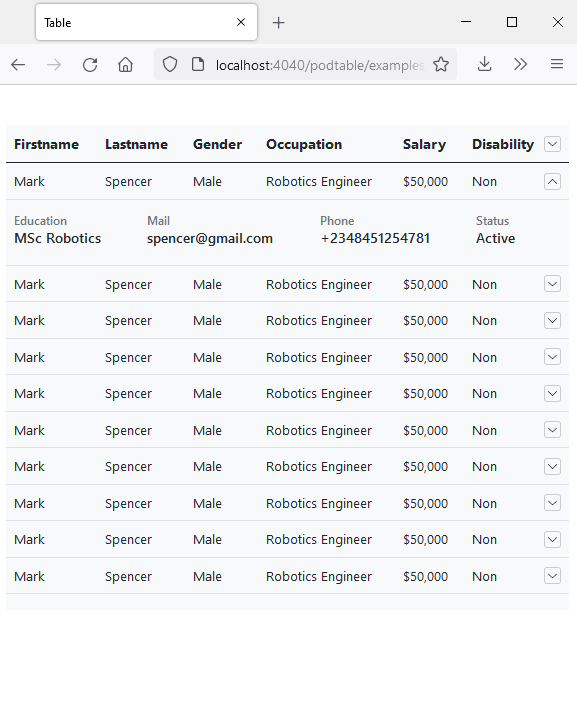
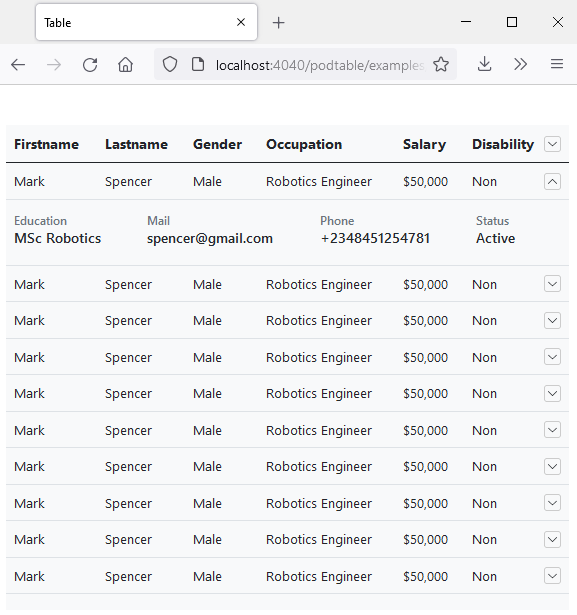
fix control toggle with no hidden cell

diff --git a/dist/podtable.js b/dist/podtable.js
@@ -1,2 +1,2 @@
-!function(e,t){"object"==typeof exports&&"undefined"!=typeof module?module.exports=t():"function"==typeof define&&define.amd?define(t):(e||self).Podtable=t()}(this,function(){function e(e,t){(null==t||t>e.length)&&(t=e.length);for(var n=0,r=new Array(t);n<t;n++)r[n]=e[n];return r}return function(t,n){void 0===n&&(n={});var r,l,o=document.querySelector(t);if(!1===h(o))throw new Error(l);-1===h(o)?r=document.querySelector(t+" thead tr"):h(o)&&(r=document.querySelector(t+" tbody tr"));var i=document.createElement("div");i.setAttribute("id","podtable-container"),o.parentNode.insertBefore(i,o),i.appendChild(o);var c=[],d=[],a=[0],s=window.innerWidth,u=this;function h(e){return null===e?(l="Unable to access target HTMLTableElement",!1):e instanceof HTMLTableElement?null===e.tHead?(l="Table should have only one THEAD",!1):e.tBodies.length<=0?(l="Table should have only one TBODY",!1):!(e.tBodies[0].rows.length<=0)||-1:(l="Element is not a HTMLTableElement",!1)}function f(e){var t=document.createElement("tr"),n=document.createElement("td"),r=document.createElement("div");n.colSpan=d.length,r.classList.add("child-grid-row"),t.classList.add("child");for(var l=0;l<e.length;l++)r.append(e[l]);return n.append(r),t.append(n),t}function m(e){var t=document.createElement("div");t.classList.add("child-grid-col");var n=document.createElement("div"),r=document.createElement("div");return n.innerHTML=e.dataset.gridColname,r.innerHTML=e.innerHTML,t.append(n),t.append(r),t}function v(e){var t=e.target.parentElement;if(t.classList.contains("has-child"))t.classList.remove("has-child"),t.nextElementSibling.remove();else{t.classList.add("has-child");for(var n=[],r=0;r<t.cells.length;r++)t.cells[r].classList.contains("hidden")&&n.push(m(t.cells[r]));t.parentNode.insertBefore(f(n),t.nextSibling)}}function g(){c.length>0?o.classList.add("show-toggle"):(document.querySelectorAll(".has-child").forEach(function(e){e.classList.remove("has-child")}),o.classList.remove("show-toggle"),document.querySelector(".main-toggle").classList.remove("expanded"))}function p(){var e=document.querySelectorAll(".child");if(e.length>0){for(var t=[],n=0;n<e.length;n++)t.push(e[n].previousElementSibling);for(var r=0;r<t.length;r++){var l=[];for(var o in t[r].children)void 0!==t[r].children[o].classList&&t[r].children[o].classList.contains("hidden")&&l.push(m(t[r].children[o]));t[r].nextElementSibling.remove(),c.length>0&&t[r].after(f(l)),g()}}}function y(e){c.push(e),document.querySelectorAll('[data-cell-index="'+e+'"]').forEach(function(e){e.classList.add("hidden")}),S(e)}function b(){L();for(var e=0;e<d.length;e++)r.clientWidth>i.clientWidth&&(c.includes(d[e])||a.includes(d[e])||(y(d[e]),p()));g()}function L(){for(var e=0;e<c.length;e++)document.querySelectorAll('[data-cell-index="'+c[e]+'"]').forEach(function(e){e.classList.remove("hidden")});c=[]}function E(){c=[];for(var e=window.innerWidth,t=d.length,n=0;n<t;n++)r.clientWidth>i.clientWidth&&(c.includes(d[n])||a.includes(d[n])||y(d[n])),s=e;g()}function S(e){u.current=e,n.event&&w()}function w(){if(n.event)try{n.method(u)}catch(e){console.error(e)}}if(function(e){if(Object.prototype.hasOwnProperty.call(e,"keepCell")){if(!Array.isArray(e.keepCell))throw TypeError("keep cell must be of type array");a=[].concat(a,e.keepCell)}}(n),function(e){document.querySelector(e+" thead tr > th:last-child").classList.add("main-toggle"),document.querySelectorAll(e+" tbody tr:not(tr.child) > td:last-child").forEach(function(e){e.classList.add("toggle")})}(t),function(e){for(var t=document.querySelectorAll(e+" tr"),l=[],o=0;o<r.children.length;o++)l.push(o);for(var i=0;i<t.length;i++)for(var c=t[i].children,s=0;s<c.length;s++)c[s].setAttribute("data-cell-index",c[s].cellIndex);d=Object.prototype.hasOwnProperty.call(n,"priority")&&Array.isArray(n.priority)&&n.priority.length>0?Array.from(new Set(n.priority.concat(l.reverse()))):l.reverse(),a.push(l.length-1)}(t),E(),function(){for(var e=document.querySelectorAll(".toggle"),t=0;t<e.length;t++)e[t].addEventListener("click",function(e){v(e)});document.querySelector(".main-toggle").addEventListener("click",function(e){!function(e){var t=document.querySelectorAll(".toggle"),n=e.currentTarget;if(n.classList.contains("expanded")){for(var r=0;r<t.length;r++)t[r].parentElement.classList.contains("has-child")&&t[r].click();n.classList.remove("expanded")}else{for(var l=0;l<t.length;l++)t[l].parentElement.classList.contains("has-child")||t[l].click();n.classList.add("expanded")}}(e)})}(),window.addEventListener("resize",function(){return(e=window.innerWidth)<s?b():e>s&&(b(),c.length<=0&&(S(-1),p())),void(s=e);var e}),function(t){var n=document.querySelector(t+" tbody");function l(e){e.lastElementChild.classList.add("toggle"),e.lastElementChild.addEventListener("click",function(e){return v(e)});for(var t=0;t<e.children.length;t++)e.children[t].setAttribute("data-cell-index",e.children[t].cellIndex)}new MutationObserver(function(n,o){for(var i,c=function(t,n){var r="undefined"!=typeof Symbol&&t[Symbol.iterator]||t["@@iterator"];if(r)return(r=r.call(t)).next.bind(r);if(Array.isArray(t)||(r=function(t,n){if(t){if("string"==typeof t)return e(t,n);var r=Object.prototype.toString.call(t).slice(8,-1);return"Object"===r&&t.constructor&&(r=t.constructor.name),"Map"===r||"Set"===r?Array.from(t):"Arguments"===r||/^(?:Ui|I)nt(?:8|16|32)(?:Clamped)?Array$/.test(r)?e(t,n):void 0}}(t))){r&&(t=r);var l=0;return function(){return l>=t.length?{done:!0}:{done:!1,value:t[l++]}}}throw new TypeError("Invalid attempt to iterate non-iterable instance.\nIn order to be iterable, non-array objects must have a [Symbol.iterator]() method.")}(n);!(i=c()).done;){var d=i.value;"childList"===d.type&&1===d.addedNodes.length?"TR"!=d.addedNodes[0].tagName||d.addedNodes[0].classList.contains("child")||(l(d.addedNodes[0]),w()):"childList"===d.type&&1===d.removedNodes.length&&"TR"==d.removedNodes[0].tagName&&!d.removedNodes[0].classList.contains("child")&&d.removedNodes[0].classList.contains("has-child")&&d.nextSibling.remove()}r=document.querySelector(t+" tbody").rows.length<=0?document.querySelector(t+" thead tr"):document.querySelector(t+" tbody tr"),L(),E()}).observe(n,{childList:!0})}(t),n.event)return u}});
+!function(e,t){"object"==typeof exports&&"undefined"!=typeof module?module.exports=t():"function"==typeof define&&define.amd?define(t):(e||self).Podtable=t()}(this,function(){function e(e,t){(null==t||t>e.length)&&(t=e.length);for(var n=0,r=new Array(t);n<t;n++)r[n]=e[n];return r}return function(t,n){void 0===n&&(n={});var r,l,o=document.querySelector(t);if(!1===h(o))throw new Error(l);-1===h(o)?r=document.querySelector(t+" thead tr"):h(o)&&(r=document.querySelector(t+" tbody tr"));var i=document.createElement("div");i.setAttribute("id","podtable-container"),o.parentNode.insertBefore(i,o),i.appendChild(o);var c=[],d=[],a=[0],s=window.innerWidth,u=this;function h(e){return null===e?(l="Unable to access target HTMLTableElement",!1):e instanceof HTMLTableElement?null===e.tHead?(l="Table should have only one THEAD",!1):e.tBodies.length<=0?(l="Table should have only one TBODY",!1):!(e.tBodies[0].rows.length<=0)||-1:(l="Element is not a HTMLTableElement",!1)}function f(e){var t=document.createElement("tr"),n=document.createElement("td"),r=document.createElement("div");n.colSpan=d.length,r.classList.add("child-grid-row"),t.classList.add("child");for(var l=0;l<e.length;l++)r.append(e[l]);return n.append(r),t.append(n),t}function m(e){var t=document.createElement("div");t.classList.add("child-grid-col");var n=document.createElement("div"),r=document.createElement("div");return n.innerHTML=e.dataset.gridColname,r.innerHTML=e.innerHTML,t.append(n),t.append(r),t}function v(e){if(!(c.length<=0)){var t=e.target.parentElement;if(t.classList.contains("has-child"))t.classList.remove("has-child"),t.nextElementSibling.remove();else{t.classList.add("has-child");for(var n=[],r=0;r<t.cells.length;r++)t.cells[r].classList.contains("hidden")&&n.push(m(t.cells[r]));t.parentNode.insertBefore(f(n),t.nextSibling)}}}function g(){c.length>0?o.classList.add("show-toggle"):(document.querySelectorAll(".has-child").forEach(function(e){e.classList.remove("has-child")}),o.classList.remove("show-toggle"),document.querySelector(".main-toggle").classList.remove("expanded"))}function p(){var e=document.querySelectorAll(".child");if(e.length>0){for(var t=[],n=0;n<e.length;n++)t.push(e[n].previousElementSibling);for(var r=0;r<t.length;r++){var l=[];for(var o in t[r].children)void 0!==t[r].children[o].classList&&t[r].children[o].classList.contains("hidden")&&l.push(m(t[r].children[o]));t[r].nextElementSibling.remove(),c.length>0&&t[r].after(f(l)),g()}}}function y(e){c.push(e),document.querySelectorAll('[data-cell-index="'+e+'"]').forEach(function(e){e.classList.add("hidden")}),S(e)}function b(){L();for(var e=0;e<d.length;e++)r.clientWidth>i.clientWidth&&(c.includes(d[e])||a.includes(d[e])||(y(d[e]),p()));g()}function L(){for(var e=0;e<c.length;e++)document.querySelectorAll('[data-cell-index="'+c[e]+'"]').forEach(function(e){e.classList.remove("hidden")});c=[]}function E(){c=[];for(var e=window.innerWidth,t=d.length,n=0;n<t;n++)r.clientWidth>i.clientWidth&&(c.includes(d[n])||a.includes(d[n])||y(d[n])),s=e;g()}function S(e){u.current=e,n.event&&w()}function w(){if(n.event)try{n.method(u)}catch(e){console.error(e)}}if(function(e){if(Object.prototype.hasOwnProperty.call(e,"keepCell")){if(!Array.isArray(e.keepCell))throw TypeError("keep cell must be of type array");a=[].concat(a,e.keepCell)}}(n),function(e){document.querySelector(e+" thead tr > th:last-child").classList.add("main-toggle"),document.querySelectorAll(e+" tbody tr:not(tr.child) > td:last-child").forEach(function(e){e.classList.add("toggle")})}(t),function(e){for(var t=document.querySelectorAll(e+" tr"),l=[],o=0;o<r.children.length;o++)l.push(o);for(var i=0;i<t.length;i++)for(var c=t[i].children,s=0;s<c.length;s++)c[s].setAttribute("data-cell-index",c[s].cellIndex);d=Object.prototype.hasOwnProperty.call(n,"priority")&&Array.isArray(n.priority)&&n.priority.length>0?Array.from(new Set(n.priority.concat(l.reverse()))):l.reverse(),a.push(l.length-1)}(t),E(),function(){for(var e=document.querySelectorAll(".toggle"),t=0;t<e.length;t++)e[t].addEventListener("click",function(e){v(e)});document.querySelector(".main-toggle").addEventListener("click",function(e){!function(e){if(!(c.length<=0)){var t=document.querySelectorAll(".toggle"),n=e.currentTarget;if(n.classList.contains("expanded")){for(var r=0;r<t.length;r++)t[r].parentElement.classList.contains("has-child")&&t[r].click();n.classList.remove("expanded")}else{for(var l=0;l<t.length;l++)t[l].parentElement.classList.contains("has-child")||t[l].click();n.classList.add("expanded")}}}(e)})}(),window.addEventListener("resize",function(){return(e=window.innerWidth)<s?b():e>s&&(b(),c.length<=0&&(S(-1),p())),void(s=e);var e}),function(t){var n=document.querySelector(t+" tbody");function l(e){e.lastElementChild.classList.add("toggle"),e.lastElementChild.addEventListener("click",function(e){return v(e)});for(var t=0;t<e.children.length;t++)e.children[t].setAttribute("data-cell-index",e.children[t].cellIndex)}new MutationObserver(function(n,o){for(var i,c=function(t,n){var r="undefined"!=typeof Symbol&&t[Symbol.iterator]||t["@@iterator"];if(r)return(r=r.call(t)).next.bind(r);if(Array.isArray(t)||(r=function(t,n){if(t){if("string"==typeof t)return e(t,n);var r=Object.prototype.toString.call(t).slice(8,-1);return"Object"===r&&t.constructor&&(r=t.constructor.name),"Map"===r||"Set"===r?Array.from(t):"Arguments"===r||/^(?:Ui|I)nt(?:8|16|32)(?:Clamped)?Array$/.test(r)?e(t,n):void 0}}(t))){r&&(t=r);var l=0;return function(){return l>=t.length?{done:!0}:{done:!1,value:t[l++]}}}throw new TypeError("Invalid attempt to iterate non-iterable instance.\nIn order to be iterable, non-array objects must have a [Symbol.iterator]() method.")}(n);!(i=c()).done;){var d=i.value;"childList"===d.type&&1===d.addedNodes.length?"TR"!=d.addedNodes[0].tagName||d.addedNodes[0].classList.contains("child")||(l(d.addedNodes[0]),w()):"childList"===d.type&&1===d.removedNodes.length&&"TR"==d.removedNodes[0].tagName&&!d.removedNodes[0].classList.contains("child")&&d.removedNodes[0].classList.contains("has-child")&&d.nextSibling.remove()}r=document.querySelector(t+" tbody").rows.length<=0?document.querySelector(t+" thead tr"):document.querySelector(t+" tbody tr"),L(),E()}).observe(n,{childList:!0})}(t),n.event)return u}});
 //# sourceMappingURL=podtable.js.map

diff --git a/dist/podtable.esm.js b/dist/podtable.esm.js
@@ -1,2 +1,2 @@
-function e(e,t){(null==t||t>e.length)&&(t=e.length);for(var n=0,r=new Array(t);n<t;n++)r[n]=e[n];return r}function t(t,n){void 0===n&&(n={});var r,l,o=document.querySelector(t);if(!1===h(o))throw new Error(l);-1===h(o)?r=document.querySelector(t+" thead tr"):h(o)&&(r=document.querySelector(t+" tbody tr"));var i=document.createElement("div");i.setAttribute("id","podtable-container"),o.parentNode.insertBefore(i,o),i.appendChild(o);var c=[],a=[],d=[0],s=window.innerWidth,u=this;function h(e){return null===e?(l="Unable to access target HTMLTableElement",!1):e instanceof HTMLTableElement?null===e.tHead?(l="Table should have only one THEAD",!1):e.tBodies.length<=0?(l="Table should have only one TBODY",!1):!(e.tBodies[0].rows.length<=0)||-1:(l="Element is not a HTMLTableElement",!1)}function f(e){var t=document.createElement("tr"),n=document.createElement("td"),r=document.createElement("div");n.colSpan=a.length,r.classList.add("child-grid-row"),t.classList.add("child");for(var l=0;l<e.length;l++)r.append(e[l]);return n.append(r),t.append(n),t}function m(e){var t=document.createElement("div");t.classList.add("child-grid-col");var n=document.createElement("div"),r=document.createElement("div");return n.innerHTML=e.dataset.gridColname,r.innerHTML=e.innerHTML,t.append(n),t.append(r),t}function v(e){var t=e.target.parentElement;if(t.classList.contains("has-child"))t.classList.remove("has-child"),t.nextElementSibling.remove();else{t.classList.add("has-child");for(var n=[],r=0;r<t.cells.length;r++)t.cells[r].classList.contains("hidden")&&n.push(m(t.cells[r]));t.parentNode.insertBefore(f(n),t.nextSibling)}}function g(){c.length>0?o.classList.add("show-toggle"):(document.querySelectorAll(".has-child").forEach(function(e){e.classList.remove("has-child")}),o.classList.remove("show-toggle"),document.querySelector(".main-toggle").classList.remove("expanded"))}function p(){var e=document.querySelectorAll(".child");if(e.length>0){for(var t=[],n=0;n<e.length;n++)t.push(e[n].previousElementSibling);for(var r=0;r<t.length;r++){var l=[];for(var o in t[r].children)void 0!==t[r].children[o].classList&&t[r].children[o].classList.contains("hidden")&&l.push(m(t[r].children[o]));t[r].nextElementSibling.remove(),c.length>0&&t[r].after(f(l)),g()}}}function y(e){c.push(e),document.querySelectorAll('[data-cell-index="'+e+'"]').forEach(function(e){e.classList.add("hidden")}),S(e)}function L(){b();for(var e=0;e<a.length;e++)r.clientWidth>i.clientWidth&&(c.includes(a[e])||d.includes(a[e])||(y(a[e]),p()));g()}function b(){for(var e=0;e<c.length;e++)document.querySelectorAll('[data-cell-index="'+c[e]+'"]').forEach(function(e){e.classList.remove("hidden")});c=[]}function E(){c=[];for(var e=window.innerWidth,t=a.length,n=0;n<t;n++)r.clientWidth>i.clientWidth&&(c.includes(a[n])||d.includes(a[n])||y(a[n])),s=e;g()}function S(e){u.current=e,n.event&&w()}function w(){if(n.event)try{n.method(u)}catch(e){console.error(e)}}if(function(e){if(Object.prototype.hasOwnProperty.call(e,"keepCell")){if(!Array.isArray(e.keepCell))throw TypeError("keep cell must be of type array");d=[].concat(d,e.keepCell)}}(n),function(e){document.querySelector(e+" thead tr > th:last-child").classList.add("main-toggle"),document.querySelectorAll(e+" tbody tr:not(tr.child) > td:last-child").forEach(function(e){e.classList.add("toggle")})}(t),function(e){for(var t=document.querySelectorAll(e+" tr"),l=[],o=0;o<r.children.length;o++)l.push(o);for(var i=0;i<t.length;i++)for(var c=t[i].children,s=0;s<c.length;s++)c[s].setAttribute("data-cell-index",c[s].cellIndex);a=Object.prototype.hasOwnProperty.call(n,"priority")&&Array.isArray(n.priority)&&n.priority.length>0?Array.from(new Set(n.priority.concat(l.reverse()))):l.reverse(),d.push(l.length-1)}(t),E(),function(){for(var e=document.querySelectorAll(".toggle"),t=0;t<e.length;t++)e[t].addEventListener("click",function(e){v(e)});document.querySelector(".main-toggle").addEventListener("click",function(e){!function(e){var t=document.querySelectorAll(".toggle"),n=e.currentTarget;if(n.classList.contains("expanded")){for(var r=0;r<t.length;r++)t[r].parentElement.classList.contains("has-child")&&t[r].click();n.classList.remove("expanded")}else{for(var l=0;l<t.length;l++)t[l].parentElement.classList.contains("has-child")||t[l].click();n.classList.add("expanded")}}(e)})}(),window.addEventListener("resize",function(){return(e=window.innerWidth)<s?L():e>s&&(L(),c.length<=0&&(S(-1),p())),void(s=e);var e}),function(t){var n=document.querySelector(t+" tbody");function l(e){e.lastElementChild.classList.add("toggle"),e.lastElementChild.addEventListener("click",function(e){return v(e)});for(var t=0;t<e.children.length;t++)e.children[t].setAttribute("data-cell-index",e.children[t].cellIndex)}new MutationObserver(function(n,o){for(var i,c=function(t,n){var r="undefined"!=typeof Symbol&&t[Symbol.iterator]||t["@@iterator"];if(r)return(r=r.call(t)).next.bind(r);if(Array.isArray(t)||(r=function(t,n){if(t){if("string"==typeof t)return e(t,n);var r=Object.prototype.toString.call(t).slice(8,-1);return"Object"===r&&t.constructor&&(r=t.constructor.name),"Map"===r||"Set"===r?Array.from(t):"Arguments"===r||/^(?:Ui|I)nt(?:8|16|32)(?:Clamped)?Array$/.test(r)?e(t,n):void 0}}(t))){r&&(t=r);var l=0;return function(){return l>=t.length?{done:!0}:{done:!1,value:t[l++]}}}throw new TypeError("Invalid attempt to iterate non-iterable instance.\nIn order to be iterable, non-array objects must have a [Symbol.iterator]() method.")}(n);!(i=c()).done;){var a=i.value;"childList"===a.type&&1===a.addedNodes.length?"TR"!=a.addedNodes[0].tagName||a.addedNodes[0].classList.contains("child")||(l(a.addedNodes[0]),w()):"childList"===a.type&&1===a.removedNodes.length&&"TR"==a.removedNodes[0].tagName&&!a.removedNodes[0].classList.contains("child")&&a.removedNodes[0].classList.contains("has-child")&&a.nextSibling.remove()}r=document.querySelector(t+" tbody").rows.length<=0?document.querySelector(t+" thead tr"):document.querySelector(t+" tbody tr"),b(),E()}).observe(n,{childList:!0})}(t),n.event)return u}export{t as default};
+function e(e,t){(null==t||t>e.length)&&(t=e.length);for(var n=0,r=new Array(t);n<t;n++)r[n]=e[n];return r}function t(t,n){void 0===n&&(n={});var r,l,o=document.querySelector(t);if(!1===h(o))throw new Error(l);-1===h(o)?r=document.querySelector(t+" thead tr"):h(o)&&(r=document.querySelector(t+" tbody tr"));var i=document.createElement("div");i.setAttribute("id","podtable-container"),o.parentNode.insertBefore(i,o),i.appendChild(o);var c=[],a=[],d=[0],s=window.innerWidth,u=this;function h(e){return null===e?(l="Unable to access target HTMLTableElement",!1):e instanceof HTMLTableElement?null===e.tHead?(l="Table should have only one THEAD",!1):e.tBodies.length<=0?(l="Table should have only one TBODY",!1):!(e.tBodies[0].rows.length<=0)||-1:(l="Element is not a HTMLTableElement",!1)}function f(e){var t=document.createElement("tr"),n=document.createElement("td"),r=document.createElement("div");n.colSpan=a.length,r.classList.add("child-grid-row"),t.classList.add("child");for(var l=0;l<e.length;l++)r.append(e[l]);return n.append(r),t.append(n),t}function m(e){var t=document.createElement("div");t.classList.add("child-grid-col");var n=document.createElement("div"),r=document.createElement("div");return n.innerHTML=e.dataset.gridColname,r.innerHTML=e.innerHTML,t.append(n),t.append(r),t}function v(e){if(!(c.length<=0)){var t=e.target.parentElement;if(t.classList.contains("has-child"))t.classList.remove("has-child"),t.nextElementSibling.remove();else{t.classList.add("has-child");for(var n=[],r=0;r<t.cells.length;r++)t.cells[r].classList.contains("hidden")&&n.push(m(t.cells[r]));t.parentNode.insertBefore(f(n),t.nextSibling)}}}function g(){c.length>0?o.classList.add("show-toggle"):(document.querySelectorAll(".has-child").forEach(function(e){e.classList.remove("has-child")}),o.classList.remove("show-toggle"),document.querySelector(".main-toggle").classList.remove("expanded"))}function p(){var e=document.querySelectorAll(".child");if(e.length>0){for(var t=[],n=0;n<e.length;n++)t.push(e[n].previousElementSibling);for(var r=0;r<t.length;r++){var l=[];for(var o in t[r].children)void 0!==t[r].children[o].classList&&t[r].children[o].classList.contains("hidden")&&l.push(m(t[r].children[o]));t[r].nextElementSibling.remove(),c.length>0&&t[r].after(f(l)),g()}}}function y(e){c.push(e),document.querySelectorAll('[data-cell-index="'+e+'"]').forEach(function(e){e.classList.add("hidden")}),S(e)}function L(){b();for(var e=0;e<a.length;e++)r.clientWidth>i.clientWidth&&(c.includes(a[e])||d.includes(a[e])||(y(a[e]),p()));g()}function b(){for(var e=0;e<c.length;e++)document.querySelectorAll('[data-cell-index="'+c[e]+'"]').forEach(function(e){e.classList.remove("hidden")});c=[]}function E(){c=[];for(var e=window.innerWidth,t=a.length,n=0;n<t;n++)r.clientWidth>i.clientWidth&&(c.includes(a[n])||d.includes(a[n])||y(a[n])),s=e;g()}function S(e){u.current=e,n.event&&w()}function w(){if(n.event)try{n.method(u)}catch(e){console.error(e)}}if(function(e){if(Object.prototype.hasOwnProperty.call(e,"keepCell")){if(!Array.isArray(e.keepCell))throw TypeError("keep cell must be of type array");d=[].concat(d,e.keepCell)}}(n),function(e){document.querySelector(e+" thead tr > th:last-child").classList.add("main-toggle"),document.querySelectorAll(e+" tbody tr:not(tr.child) > td:last-child").forEach(function(e){e.classList.add("toggle")})}(t),function(e){for(var t=document.querySelectorAll(e+" tr"),l=[],o=0;o<r.children.length;o++)l.push(o);for(var i=0;i<t.length;i++)for(var c=t[i].children,s=0;s<c.length;s++)c[s].setAttribute("data-cell-index",c[s].cellIndex);a=Object.prototype.hasOwnProperty.call(n,"priority")&&Array.isArray(n.priority)&&n.priority.length>0?Array.from(new Set(n.priority.concat(l.reverse()))):l.reverse(),d.push(l.length-1)}(t),E(),function(){for(var e=document.querySelectorAll(".toggle"),t=0;t<e.length;t++)e[t].addEventListener("click",function(e){v(e)});document.querySelector(".main-toggle").addEventListener("click",function(e){!function(e){if(!(c.length<=0)){var t=document.querySelectorAll(".toggle"),n=e.currentTarget;if(n.classList.contains("expanded")){for(var r=0;r<t.length;r++)t[r].parentElement.classList.contains("has-child")&&t[r].click();n.classList.remove("expanded")}else{for(var l=0;l<t.length;l++)t[l].parentElement.classList.contains("has-child")||t[l].click();n.classList.add("expanded")}}}(e)})}(),window.addEventListener("resize",function(){return(e=window.innerWidth)<s?L():e>s&&(L(),c.length<=0&&(S(-1),p())),void(s=e);var e}),function(t){var n=document.querySelector(t+" tbody");function l(e){e.lastElementChild.classList.add("toggle"),e.lastElementChild.addEventListener("click",function(e){return v(e)});for(var t=0;t<e.children.length;t++)e.children[t].setAttribute("data-cell-index",e.children[t].cellIndex)}new MutationObserver(function(n,o){for(var i,c=function(t,n){var r="undefined"!=typeof Symbol&&t[Symbol.iterator]||t["@@iterator"];if(r)return(r=r.call(t)).next.bind(r);if(Array.isArray(t)||(r=function(t,n){if(t){if("string"==typeof t)return e(t,n);var r=Object.prototype.toString.call(t).slice(8,-1);return"Object"===r&&t.constructor&&(r=t.constructor.name),"Map"===r||"Set"===r?Array.from(t):"Arguments"===r||/^(?:Ui|I)nt(?:8|16|32)(?:Clamped)?Array$/.test(r)?e(t,n):void 0}}(t))){r&&(t=r);var l=0;return function(){return l>=t.length?{done:!0}:{done:!1,value:t[l++]}}}throw new TypeError("Invalid attempt to iterate non-iterable instance.\nIn order to be iterable, non-array objects must have a [Symbol.iterator]() method.")}(n);!(i=c()).done;){var a=i.value;"childList"===a.type&&1===a.addedNodes.length?"TR"!=a.addedNodes[0].tagName||a.addedNodes[0].classList.contains("child")||(l(a.addedNodes[0]),w()):"childList"===a.type&&1===a.removedNodes.length&&"TR"==a.removedNodes[0].tagName&&!a.removedNodes[0].classList.contains("child")&&a.removedNodes[0].classList.contains("has-child")&&a.nextSibling.remove()}r=document.querySelector(t+" tbody").rows.length<=0?document.querySelector(t+" thead tr"):document.querySelector(t+" tbody tr"),b(),E()}).observe(n,{childList:!0})}(t),n.event)return u}export{t as default};
 //# sourceMappingURL=podtable.esm.js.map

diff --git a/examples/index.html b/examples/index.html
@@ -100,12 +100,16 @@
                 priority: [2,4,5],
                 event: true,
                 method: (state) => {
-                    let el = document.querySelector('.demo');
+                    let el = document.querySelectorAll('.demo');
 
                     if(state.current == 5) {
-                        el.style.display = 'block'
+                        el.forEach((n) => {
+                            n.style.display = 'block'
+                        }) 
                     } else {
-                        el.style.display = 'none'
+                        el.forEach((n) => {
+                            n.style.display = 'none'
+                        })
                     }
                 }
             })

diff --git a/src/podtable.js b/src/podtable.js
@@ -178,6 +178,8 @@ function Podtable(tableEl, config = {}) {
      * @param {event} event
      */
     function toggle(e) {
+        if (hiddenCells.length <= 0) { return }
+        
         let parent = e.target.parentElement
 
         if(parent.classList.contains('has-child')) {
@@ -202,6 +204,8 @@ function Podtable(tableEl, config = {}) {
      * @param {event} event
      */
     function toggleAll(e) {
+        if (hiddenCells.length <= 0) { return }
+
         let toggleEls = document.querySelectorAll('.toggle')
         let toggler = e.currentTarget
 

diff --git a/README.md b/README.md
@@ -23,8 +23,8 @@ Podtable is a no dependency table library to fit large table dataset into smalle
 - [**Preview**](#preview)
 - [**Installation**](#installation)
 - [**Usage**](#usage)
-- [**V1.0.3, V1.0.4**](#v103-v104)
 - [**V1.1.0**](#v110)
+- [**V1.0.***](#v10)
 - [**Contributing**](#contributing)
 - [**Miscellaneous**](#miscellaneous)
     - [**Examples**](#examples)
@@ -47,16 +47,20 @@ There are basically two ways to install podtablejs via npm or download and inclu
 
 # Usage
 
-### Html markup
+### HTML markup
 
 Your html markup needs to include few things for podtable to work well and the markup should be structure with perceived standard.
 
-* A dataset data-grid-colname attributes which value will be the name of the column.
-* An empty th, td for head and body element which will serve as control column
+* A data attribute `data-grid-colname` which value will be the name of the column.
+
+* All table body rows should have the `data-grid-colname` attributes.
+
+* An empty th, td at the end of the table row element which will serve as control column.
+
 * The control cell must not be hidden with css or push off screen with absolute positioning.
+
 * Its really important to include the stylesheet because podtable relies on it.
 
-continue to read below for version specfic usage
 
 ```html
 
@@ -65,7 +69,7 @@ continue to read below for version specfic usage
         <tr>
             <th>Firstname</th>
             <th>Lastname</th>
-               ...
+            ...
             <th></th>
         </tr>
     </thead>
@@ -73,7 +77,7 @@ continue to read below for version specfic usage
         <tr>
             <td data-grid-colname="Firstname">Mark</td>
             <td data-grid-colname="Lastname">Spencer</td>
-               ...
+            ...
             <td></td>
         </tr>
     </tbody>
@@ -81,49 +85,79 @@ continue to read below for version specfic usage
 
 ```
 
-# V1.0.3, V1.0.4
+# V1.1.0
 
+Reference via the script tag
 ```js
-// If you made reference via script tag use this way
+<script src="podtable/dist/podtable.js"></script> 
 
-window.addEventListener('DOMContentLoaded', () => {
-    new Podtable.Podtable('#table');
+new Podtable('#table', {
+    keepCell: [1, 6]
+    // ... other config options
 })
 
 ```
 
-```js
-// Using the import statement use this way
-
-import { Podtable } from 'podtable';
-
-new Podtable('#table');
-
-```
-
-
-The Podtable instance receive config object with a number of available options to use in making your table responsive.
-
-* `keepCell` which is used to specify an array of cells to keep
-and also note the first cell for the table with an index of `0` will not be hidden by default
+Using the import statement 
 
 ```js
+
+import Podtable from 'podtable';
 
 new Podtable('#table', {
     keepCell: [1, 6]
-});
+    // ... other config options
+})
 
 ```
 
-* The `event` option which receive a boolean inorder for podtable to emit an event for cells that will hidden
-* The `method` option which takes in the function to  be executed for each cell event and its used in conjuction with the event option.
-* The function passed to the `method` option receives an event parameter to access the event.
+The podtable instance receives a number of config option in achieving a responsive table which can be use together or as your use case demands.
 
-* `event.current` which is the next cell index to hidden or that will be shown and it returns a numeric value.
+#### Available Options
 
-* `event.isCurrentShown` which is a boolean and it indicates if the `event.current` cell index is visible or hidden.
+* `KeepCell`
+* `priority`
+* `event`
+* `method`
 
-* The function pass to the method option should not be error prone and not be a long running activity.
+The `keepCell` which is used to specify an array of cells to keep
+and also note the first cell for the table with an index of `0` will not be hidden by default.
+
+```js
+new Podtable('#table', {
+    keepCell: [1, 6],
+});
+```
+
+The `priority` config option which is an array of priority of how cells will be hidden and if only few cell index are passed to the `priority` config object this will take precedence over the other cell index.
+
+```js
+new Podtable('#table', {
+    priority: [2, 4, 5]
+})
+```
+The `event` and `method` config option which is meant to be used together, the `event` option accepts a boolean inorder for podtable to emit an event and `method` option which takes in a function to be executed for the hidden cells. and the function receives a parameter to acess the index of the cell that was last hidden.
+
+```js
+new Podtable('#table', {
+    event: true,
+    method: (state) => {
+        let el = document.querySelectorAll('.demo')
+
+        if(state.current == 5) {
+            el.forEach((n) => {
+                n.style.display = 'block'
+            }) 
+        } else {
+            el.forEach((n) => {
+                n.style.display = 'none'
+            })
+        }
+    }
+});
+```
+
+# V1.0.*
 
 ### Available Options
 * `KeepCell`
@@ -132,86 +166,14 @@ new Podtable('#table', {
 * `method`
 
 
-```js
-
-new Podtable('#table', {
-    keepCell: [1, 6],
-    event: true,
-    forCell: [5],
-    method: (event) => {
-        let el = document.querySelector('#demo');
-        
-        if (event.current <= 5 && event.isCurrentShown === false) {
-            el.style.display = 'block'
-        } else {
-            el.style.display = 'none'
-        }
-    }
-});
-
-```
-
-# V1.1.0
-
-* The `event.isCurrentShown` has been removed.
-
-* The `forCell` option has been removed as event will be dispatched for every cell hidden only if `event` is set to true
-
-* `event.current` which now returns the index of the cell that was last hidden
-
-* Added `priority` config option which is an array of priority of how cells will be hidden and if only few cell index are passed to the `priority` config object this will take precedence over the other cell index.
-
-* The `priority` config option be can use together with other availables options
-
-* podtable is now availabe via the `Podtable` global either by  reference via script tag or by using the import statement
-
-### Available Options
-* `KeepCell`
-* `priority`
-* `event`
-* `method`
-
-Now if you pull podtable by reference via script tag or by using the import statement podtable instance is now available via the `Podtable` global
-
-
-```js
-// import Podtable from 'podtable';
-// <script src="podtable/dist/podtable.js"></script> 
-
-new Podtable('#table', {
-    // config options
-})
-
-```
-
-Using the import statement should now be done like this
-
-```js
-
-import Podtable from 'podtable';
-
-```
-
-The `priority` config object
-```js
-
-new Podtable('#table', {
-    priority: [2,4,5]
-    // ... other config options
-})
-
-```
-
 # Contributing
 
 Thank you for considering to contribute to Podtablejs below is a quick guide
 
 * clone this repo locally
-* run `npm install` to dependencies
 
 * Include the `podtable/dist/podtable.js` file from a `<script>` tag on a webpage
 * Include the  `podtable/dist/podtable.css` from `<link>` tag on a webpage
-* run `npm run build` or `npm run watch` to start seeing changes made to the code
 
 * Pull requests, is recommend not just bug reports 
 * And you're set to go &#128079;
@@ -219,16 +181,14 @@ Thank you for considering to contribute to Podtablejs below is a quick guide
 
 # Miscellaneous
 
-## Examples
+### Examples
 
 * See examples folder [here](examples/index.html) on this repo
 * View it live on [Codepen](https://codepen.io/inlogicstudio/pen/BaZyyGZ) and this example is base on `V1.0.*`
 
-## Roadmap
-* Columns sorting
-* Server side rendering
-* Pagination
+### Roadmap
+More awesomeness in achieving a responsive datatable. &#128522;
 
-## License
+### License
 
 Podtablejs is open-sourced software licensed under the [MIT license](LICENSE.md).
